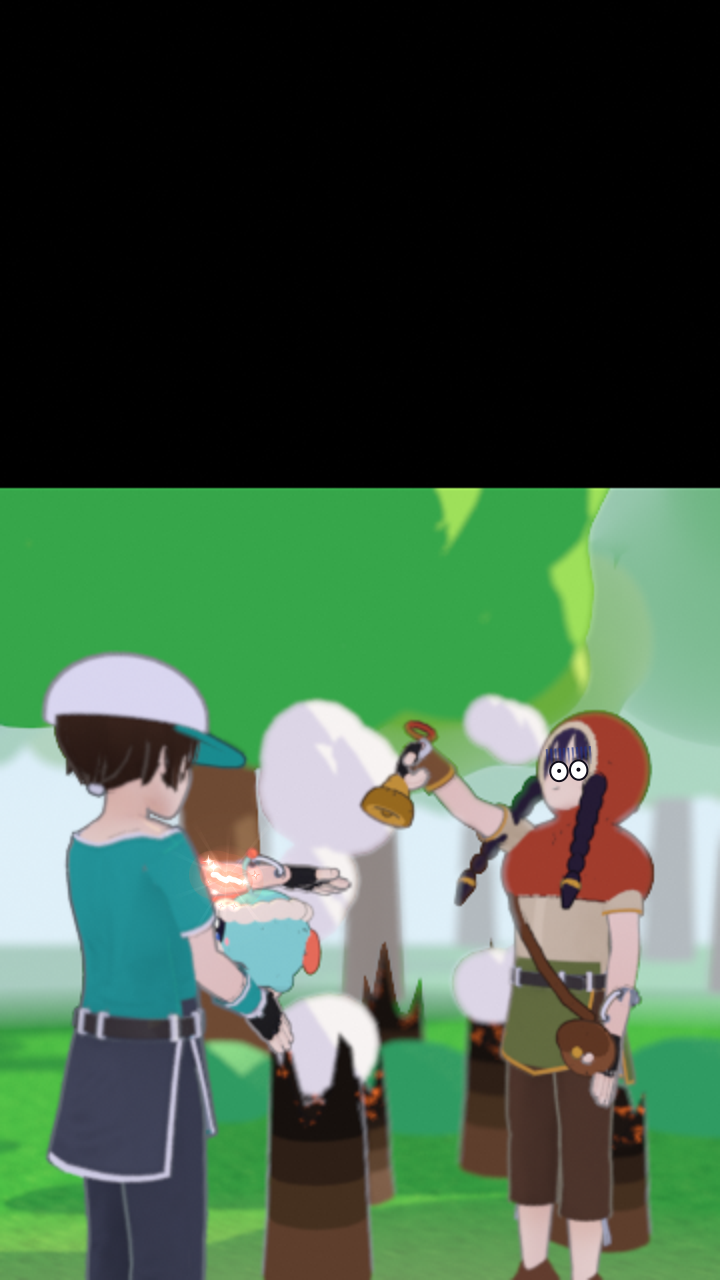
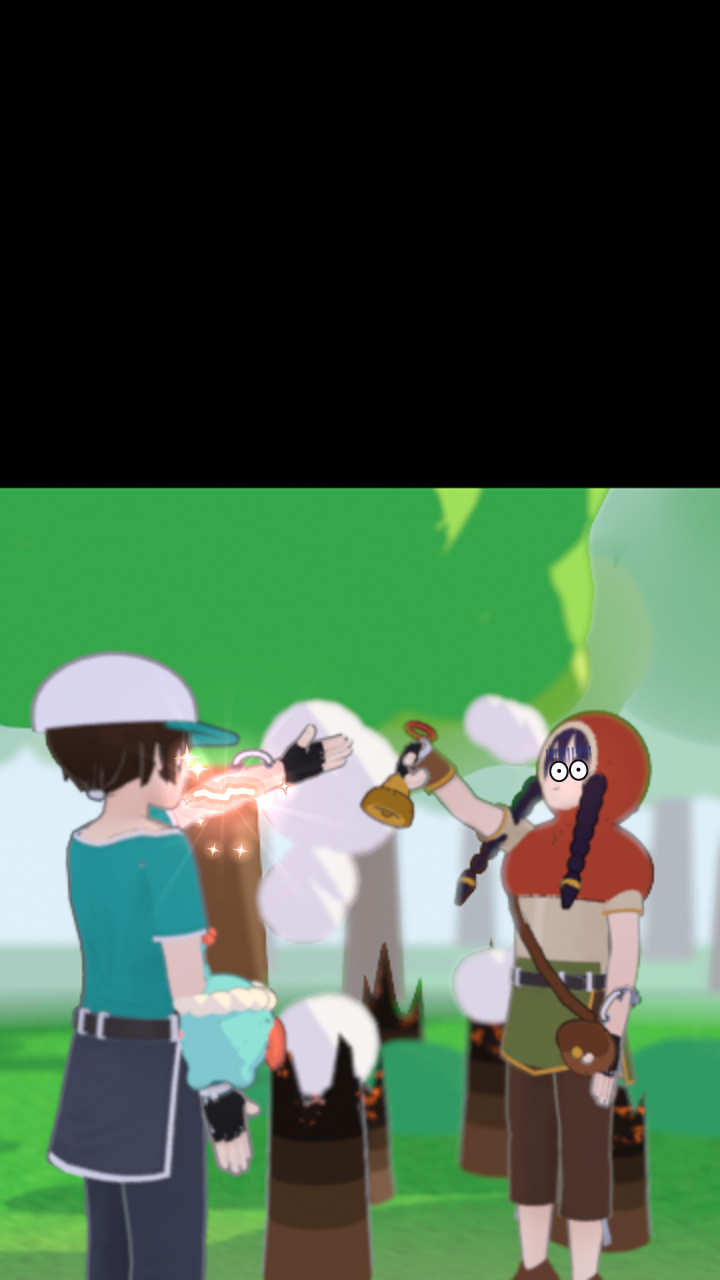
Ep2 S20bot v2 stills after the mark fix: f108 (replaced) and f098 (the flare)
Claude-Session: https://claude.ai/code/session_01PF511YEojWTNPFKxSeURms

Changed region(s): [[0.0306, 0.5, 0.4889, 0.9375], [0.7639, 0.5938, 0.825, 0.625]]

diff --git a/out/monsters/diorama_ep02/status/helper4.md b/out/monsters/diorama_ep02/status/helper4.md
@@ -1,7 +1,24 @@
 # Helper 4 status (Ep 2)
 
-## NEW: S20bot v2, the owner's new ending ("Option B: show her the glowing mark"): OK stills, waiting for your OK
-- **Stills:** `okstills/S20bot_v2_f060.png` and `okstills/S20bot_v2_f108.png` (half-scale render, upscaled; the 2D
+## NEW: S20bot v2, the owner's new ending ("Option B: show her the glowing mark")
+**Update 20:50 UTC: the mark fix is done (your 20:23 notes). New stills: `okstills/S20bot_v2_f108.png` (replaced) and
+`okstills/S20bot_v2_f098.png` (the flare's peak). f060 is unchanged (approved).**
+- **Separated:** after "Option B" the shrimp goes down to his right hand at waist level, at his side, away from the
+  raised arm.
+- **Wrist presented:** his left forearm rises to face height toward Wren, the inner wrist turned out (a forearm
+  twist), palm open, clear of his body and the shrimp.
+- **The mark, 2x S14's size:**
+  - Same zigzag and colours (`post_helper9.mark`), bolder.
+  - A white-hot core inside a coral line.
+  - A soft pink halo round the wrist.
+  - On the flare (f95-101), a white-hot bloom, the burst and sparkles.
+  - From f108, a steady glow with a gentle pulse and a few soft sparkles.
+  - A faint coral spill on Wren's face (2D) while it glows, plus the real coral point light on his arm.
+- **f108 reads at phone size:** the glowing zigzag sits on his forearm between them, and Wren's 2D shocked eyes and
+  the bell ward are as before.
+- **Ready for the 160-frame split as soon as you OK it.**
+
+- **First stills (19:50):** `okstills/S20bot_v2_f060.png` and the first f108 (now replaced) (half-scale render, upscaled; the 2D
   pass included; bottom 62% only, as before).
 - **Builder:** `helper4.py` `s20bot()` (same name), 160 render frames from the new timing (78c1cad).
 - **Beats** (shot frames, 1-based): "Option B" f60, "show" f84, "glowing" f95, "mark" ends f108, "Comment" f117.
